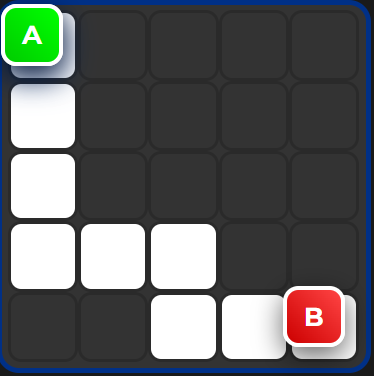
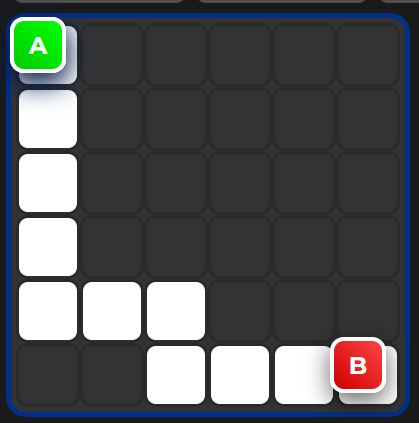
V3

Changed region(s): [[0.0, 0.0, 1.0, 0.9947]]

diff --git a/index.html b/index.html
@@ -8,14 +8,14 @@
     <link rel="stylesheet" href="style.css">
     <link rel="stylesheet" href="https://cdnjs.cloudflare.com/ajax/libs/font-awesome/6.5.1/css/all.min.css">
 
-    <!-- Firebase SDK -->
+    <!-- Firebase -->
     <script src="https://www.gstatic.com/firebasejs/9.23.0/firebase-app-compat.js"></script>
     <script src="https://www.gstatic.com/firebasejs/9.23.0/firebase-firestore-compat.js"></script>
 </head>
 
 <body>
 
-    <!-- Top Controls -->
+    <!-- Controls -->
     <div id="top-controls">
         <button id="home-btn" onclick="showStartScreen()" title="Home">
             <i class="fas fa-home"></i>
@@ -25,7 +25,7 @@
         </button>
     </div>
 
-    <!-- Tutorial Modal -->
+    <!-- Tutorial  -->
     <div id="tutorial-modal" class="modal">
         <div class="modal-content">
             <span class="close" onclick="closeTutorial()">&times;</span>
@@ -36,13 +36,13 @@
         </div>
     </div>
 
-    <!-- Start Screen (Menu) -->
+    <!-- Start Screen  -->
     <div id="start-screen" class="screen active">
-        <div id="start-background"></div> <!-- Add background image in CSS -->
+        <div id="start-background"></div> <!--background -->
         <h1>Code Path Challenge</h1>
         <p>Guide the cube from A to B using direction commands!</p>
 
-        <!-- Menu Buttons (Stacked Green) -->
+        <!-- Menu Buttons  -->
         <div id="start-menu-buttons" class="menu-buttons-stack">
             <button onclick="startPhase(1)" class="menu-btn green-btn">▶ Start (Phase 1)</button>
             <button onclick="showPhaseSelection()" class="menu-btn green-btn">Phases</button>
@@ -56,7 +56,7 @@
             <span class="close" onclick="closePhaseSelection()">&times;</span>
             <h2>Select Phase</h2>
             <div id="phase-selection-buttons">
-                <!-- Auto-generated -->
+                
             </div>
             <button onclick="closePhaseSelection()" class="green-btn">Back to Menu</button>
         </div>
@@ -72,6 +72,12 @@
                 <span>LOCKED</span></button>
             <button id="phase-4-btn" class="phase-btn locked" onclick="startPhase(4)">Phase 4
                 <span>LOCKED</span></button>
+            <button id="phase-5-btn" class="phase-btn locked" onclick="startPhase(5)">Phase 5
+                <span>LOCKED</span></button>
+            <button id="phase-6-btn" class="phase-btn locked" onclick="startPhase(6)">Phase 6
+                <span>LOCKED</span></button>
+            <button id="phase-7-btn" class="phase-btn locked" onclick="startPhase(7)">Phase 7
+                <span>LOCKED</span></button>
         </div>
 
         <div id="game-row">
@@ -86,7 +92,7 @@
             <!-- Controls Panel -->
             <div id="controls-panel">
                 <div id="controls">
-                    <!-- D-Pad layout -->
+                   
                     <div class="dir-row"><button onclick="addCommand('up')" class="dir-btn"><i
                                 class="fas fa-arrow-up"></i></button></div>
                     <div class="dir-row">
@@ -115,6 +121,9 @@
                         <button onclick="clearFunction()"
                             style="float:right;background:#cc0000;color:#fff;border:none;padding:4px 8px;font-size:12px;border-radius:6px;cursor:pointer;">Clear</button>
                     </div>
+                    <div id="func-limit-text">
+                        You have only <span id="func-limit-number">4</span> function commands
+                    </div>
                     <div id="function-commands"><span style="color:#666">[]</span></div>
                     <div style="margin-top:8px;display:flex;justify-content:center;gap:6px;">
                         <button onclick="addToFunction('up')" class="dir-btn small"><i
@@ -130,22 +139,21 @@
             </div>
         </div>
 
-        <!-- Command limit text (Phase 3+) -->
+        <!-- Command limit  -->
         <div id="command-limit-text" style="color:#ffaa00;font-weight:bold;margin:10px 0;display:none;">
             You have only <span id="limit-number">4</span> main commands – use FUNCTION (F) wisely!
         </div>
 
-        <!-- Commands display -->
         <div id="command-list"></div>
 
-        <!-- RANKING BUTTON (in-game) -->
+        <!-- Button Ranking -->
         <div style="margin:15px 0;">
             <button onclick="showRanking(currentPhase)" class="green-btn" style="padding:14px 32px;font-size:18px;">
                 View Ranking – Phase <span id="ranking-phase-num">1</span>
             </button>
         </div>
 
-        <!-- Result Modal -->
+        <!-- Result -->
         <div id="result-modal" style="display:none;">
             <div class="modal-content">
                 <span class="close" onclick="closeModal()">&times;</span>
@@ -154,13 +162,13 @@
                 <div id="result-buttons">
                     <button onclick="nextPhase()" id="next-btn" class="green-btn">Next Phase →</button>
                     <button onclick="resetGame(); closeModal();" class="green-btn">Play Again</button>
-                    <!-- FIXED: Resets + closes -->
+
                 </div>
-                <!-- REMOVED separate Close – now Play Again does it -->
+
             </div>
         </div>
 
-        <!-- RANKING MODAL -->
+        <!-- RANKING  -->
         <div id="ranking-modal" class="modal" style="display:none;">
             <div class="modal-content">
                 <span class="close"
@@ -172,19 +180,18 @@
             </div>
         </div>
 
-        <!-- Phase Selection Modal -->
+        <!-- Phase Selection -->
         <div id="phase-selection-modal" class="modal">
             <div class="modal-content">
                 <span class="close" onclick="closePhaseSelection()">&times;</span>
                 <h2>Select Phase</h2>
                 <div id="phase-selection-buttons">
-                    <!-- Auto-generated -->
                 </div>
                 <button onclick="closePhaseSelection()" class="green-btn">Back to Menu</button>
             </div>
         </div>
 
-        <!-- Firebase Initialization -->
+        <!-- Firebase -->
         <script>
             const firebaseConfig = {
                 apiKey: "AIzaSyAmUw8vy-bIe4zw70o-vLbWGdti9FKVsYE",

diff --git a/core.js b/core.js
@@ -5,7 +5,7 @@ const cellSize = 64;
 let commands = [];
 let functionCommands = [];
 let currentPathCoords = [];
-let phaseProgress = { current: 1, unlocked: [4] };
+let phaseProgress = { current: 1, unlocked: [1] };
 let isAnimating = false;
 let mainCommandLimit = Infinity;
 let currentFunctionLimit = Infinity;
@@ -40,16 +40,24 @@ function initPhase(id) {
   cubePos = phase.startPos || { x: 0, y: 0 };
   endPos = phase.endPos || phase.coords[phase.coords.length - 1];
   mainCommandLimit = phase.mainCommandLimit || Infinity;
-  currentFunctionLimit = phase.functionCommandLimit || Infinity;
+  functionCommandLimit = phase.functionCommandLimit || Infinity;
   const hasFunc = !!phase.hasFunction;
   const limitText = document.getElementById('command-limit-text');
   const limitNum = document.getElementById('limit-number');
-  if (phase.mainCommandLimit && phase.mainCommandLimit < Infinity) {
+  const funclimitText = document.getElementById('func-limit-text');
+  const funclimitNum = document.getElementById('func-limit-number');
+  if (phase.mainCommandLimit && phase.mainCommandLimit < Infinity && phase.functionCommandLimit && phase.functionCommandLimit < Infinity) {
     limitNum.textContent = phase.mainCommandLimit;
     limitText.style.display = 'block';
-  } else {
-    limitText.style.display = 'none';
+
+    funclimitNum.textContent = phase.functionCommandLimit;
+    funclimitText.style.display = 'block';
   }
+  else {
+    limitText.style.display = 'none';
+    funclimitText.style.display = 'none';
+  }
+  
   document.getElementById('function-btn').style.display = hasFunc ? 'inline-block' : 'none';
   document.getElementById('function-box').style.display = hasFunc ? 'block' : 'none';
   functionCommands = [];
@@ -104,14 +112,14 @@ function addCommand(dir) {
 function addFunctionCommand() {
   if (isAnimating) return;
   if (commands.length >= mainCommandLimit) { alert('Main command limit reached!'); return; }
-  commands.push('F');
+  commands.push("F");
   updateCommandDisplay();
 }
 
 function addToFunction(dir) {
   if (isAnimating) return;
-  if (functionCommands.length >= currentFunctionLimit) {
-    alert(`Only ${currentFunctionLimit} commands allowed in the FUNCTION for Phase ${currentPhase}!`);
+  if (functionCommands.length >= functionCommandLimit) {
+    alert(`Only ${functionCommandLimit} commands allowed in the FUNCTION for Phase ${currentPhase}!`);
     return;
   }
   functionCommands.push(dir);
@@ -184,7 +192,7 @@ function startGame() {
     if (!onPath) {
       console.error(`Failed at position: x=${np.x}, y=${np.y}. Not on path!`);
       showFail('Cube left the path!');
-      return; // Fails if not on any part of the path
+      return;
     }
     pos = np;
     document.getElementById('cube').style.left = `${pos.x * cellSize + 4}px`;
@@ -329,7 +337,7 @@ function closePhaseSelection() {
   document.getElementById('phase-selection-modal').style.display = 'none';
 }
 
-// Global Rankings (All Phases)
+// Global Rankings 
 function showGlobalRankings() {
   const modal = document.createElement('div');
   modal.className = 'modal';
@@ -349,7 +357,7 @@ function showGlobalRankings() {
   showRanking(phases[0].id);
 }
 
-// FIXED Ranking Function
+//Ranking Function
 function showRanking(phase) {
   const listId = document.getElementById('ranking-modal') ? 'ranking-list' : 'global-ranking-list';
   const list = document.getElementById(listId);

diff --git a/phases.js b/phases.js
@@ -3,19 +3,22 @@ const phases = [
     id: 1,
     startPos: { x: 0, y: 0 },
     endPos: { x: 5, y: 5 },
-    coords: [{ x: 0, y: 0 }, { x: 1, y: 0 }, { x: 2, y: 0 }, { x: 2, y: 1 }, { x: 3, y: 1 }, { x: 3, y: 2 }, { x: 4, y: 2 }, { x: 4, y: 3 }, { x: 4, y: 4 }, { x: 4, y: 5 }, { x: 5, y: 5 }]
+    coords: [{ x: 0, y: 0 }, { x: 1, y: 0 }, { x: 2, y: 0 }, { x: 2, y: 1 }, { x: 3, y: 1 }, { x: 3, y: 2 }, { x: 4, y: 2 }, 
+      { x: 4, y: 3 }, { x: 4, y: 4 }, { x: 4, y: 5 }, { x: 5, y: 5 }]
   },
   {
     id: 2,
     startPos: { x: 0, y: 0 },
     endPos: { x: 5, y: 5 },
-    coords: [{ x: 0, y: 0 }, { x: 0, y: 1 }, { x: 0, y: 2 }, { x: 0, y: 3 }, { x: 0, y: 4 }, { x: 1, y: 4 }, { x: 2, y: 4 }, { x: 2, y: 5 }, { x: 3, y: 5 }, { x: 4, y: 5 }, { x: 5, y: 5 }]
+    coords: [{ x: 0, y: 0 }, { x: 0, y: 1 }, { x: 0, y: 2 }, { x: 0, y: 3 }, { x: 0, y: 4 }, { x: 1, y: 4 }, { x: 2, y: 4 },
+       { x: 2, y: 5 }, { x: 3, y: 5 }, { x: 4, y: 5 }, { x: 5, y: 5 }]
   },
   {
     id: 3,
     startPos: { x: 0, y: 0 },
     endPos: { x: 5, y: 5 },
-    coords: [{ x: 0, y: 0 }, { x: 0, y: 1 }, { x: 1, y: 1 }, { x: 1, y: 2 }, { x: 2, y: 2 }, { x: 2, y: 3 }, { x: 3, y: 3 }, { x: 3, y: 4 }, { x: 4, y: 4 }, { x: 4, y: 5 }, { x: 5, y: 5 }],
+    coords: [{ x: 0, y: 0 }, { x: 0, y: 1 }, { x: 1, y: 1 }, { x: 1, y: 2 }, { x: 2, y: 2 }, { x: 2, y: 3 }, { x: 3, y: 3 },
+       { x: 3, y: 4 }, { x: 4, y: 4 }, { x: 4, y: 5 }, { x: 5, y: 5 }],
     hasFunction: true,
     mainCommandLimit: 5,
     functionCommandLimit: 20
@@ -23,12 +26,28 @@ const phases = [
   {
     id: 4,
     startPos: { x: 0, y: 5 },
-    endPos: { x: 2, y: 0 },
-    coords: [{ x: 0, y: 5 }, { x: 1, y: 5 }, { x: 0, y: 4 }, { x: 1, y: 4 }, { x: 2, y: 4 }, 
-      { x: 1, y: 3 }, { x: 2, y: 3 }, { x: 1, y: 2 }, { x: 2, y: 2 }, { x: 1, y: 1 }, { x: 2, y: 1}, 
-      { x: 3, y: 1 }, { x: 2, y: 0 }, { x: 3, y: 0 }],
+    endPos: { x: 5, y: 0 },
+    coords: [
+      { x: 0, y: 5 }, { x: 1, y: 5 }, { x: 0, y: 4 }, { x: 1, y: 4 }, { x: 2, y: 4 }, 
+      { x: 1, y: 3 }, { x: 2, y: 3 }, { x: 3, y: 3 }, { x: 2, y: 2 }, { x: 3, y: 2 }, 
+      { x: 4, y: 2}, { x: 4, y: 1 }, { x: 3, y: 1 }, { x:5, y: 1 }, { x: 5, y: 0 },{ x: 4, y: 0 }],
+      
     hasFunction: true,
-    mainCommandLimit: 7,
-    functionCommandLimit: 3
+    mainCommandLimit: 10,
+    functionCommandLimit: 4
+  },
+  {
+    id: 5,
+    startPos: { x: 5, y: 5 },
+    endPos: { x: 0, y: 0 },
+    coords: [
+      { x: 5, y: 5 }, { x: 5, y:4 }, { x: 5, y: 3 }, { x: 5, y: 2 }, { x: 5, y: 1 }, 
+      { x: 5, y: 0 }, { x: 4, y: 0 }, { x: 3, y: 0 }, { x: 3, y: 1 }, { x: 3, y: 2 }, 
+      { x: 3, y: 3}, { x: 3, y: 4 }, { x: 3, y: 5 }, { x:2, y: 5 }, { x: 1, y: 5 },{ x: 1, y: 4 },
+    { x: 1, y: 3}, { x: 1, y: 2 }, { x: 1, y: 1 }, { x:1, y: 0 }, { x: 0, y: 0 }],
+      
+    hasFunction: true,
+    mainCommandLimit: 10,
+    functionCommandLimit: 6
   }
 ];

diff --git a/style.css b/style.css
@@ -425,11 +425,10 @@ button[onclick="resetGame()"]:hover,
     left: 0;
     width: 100%;
     height: 100%;
-    background-image: url('your-background.jpg');
-    /* Add your image here later */
+    background-image: url('images/bg.png');
     background-size: cover;
     opacity: 0.8;
-    /* Adjust for transparency */
+
     z-index: -1;
 }
 
@@ -443,7 +442,6 @@ button[onclick="resetGame()"]:hover,
 
 .start-phase-btn {
     background: gray;
-    /* Locked */
     border: none;
     border-radius: 12px;
     cursor: pointer;
@@ -456,7 +454,7 @@ button[onclick="resetGame()"]:hover,
 
 .start-phase-btn.unlocked {
     background: #003087;
-    /* Blue for unlocked */
+    
 }
 
 .start-phase-btn img {
